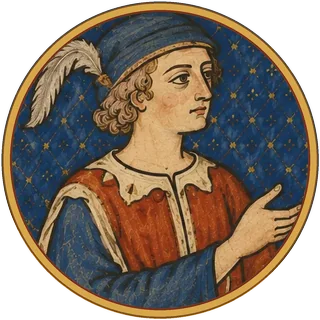
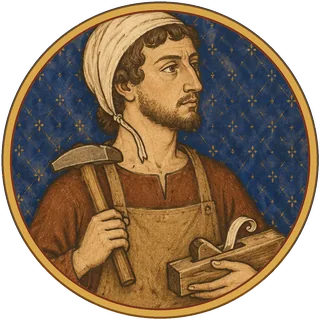
Портреты: Фридрих II своих лет (около 52, без бороды, с кречетом) и плотник в коифе вместо берета с пером
Claude-Session: https://claude.ai/code/session_01MqgnySWfdMW4H8wgNmTMfN

diff --git a/tools/portraits.py b/tools/portraits.py
@@ -44,6 +44,8 @@ JOBS = [   # серия XIII века: (лист, {имя: рамка круга
     ('33.webp', {'pope': (24, 8, 640, 644), 'frederick': (1356, 8, 1980, 648)}, 4),
     # Исторические лица: Манфред с орлом Гогенштауфенов, Эццелино да Романо в кольчуге и сюрко с имперским орлом, Леонардо Пизанский.
     ('34.webp', {'manfred': (16, 8, 640, 648), 'ezzelino': (682, 8, 1306, 648), 'leonardo': (1348, 8, 1972, 648)}, 4),
+    # Фридрих II (около 52 лет, без бороды, с кречетом) и ремесленник-плотник в коифе — взамен берета с пером.
+    ('35.webp', {'frederick': (12, 8, 868, 872), 'town_m2': (904, 12, 1760, 876)}, 4),
 ]
 # ONLY=26.webp,27.webp — нарезать лишь эти листы (остальные исходники могут лежать в другом месте).
 ONLY = [x for x in os.environ.get('ONLY', '').split(',') if x]
